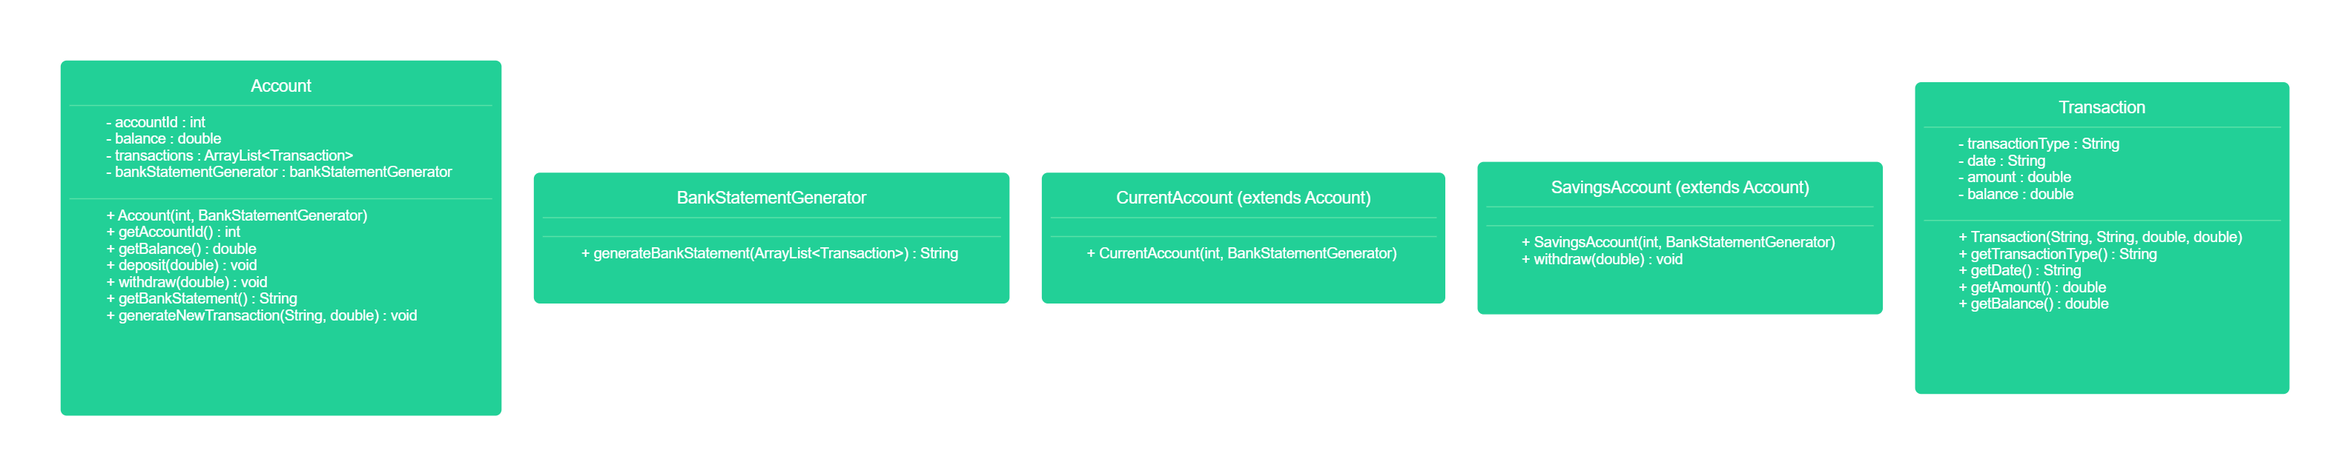
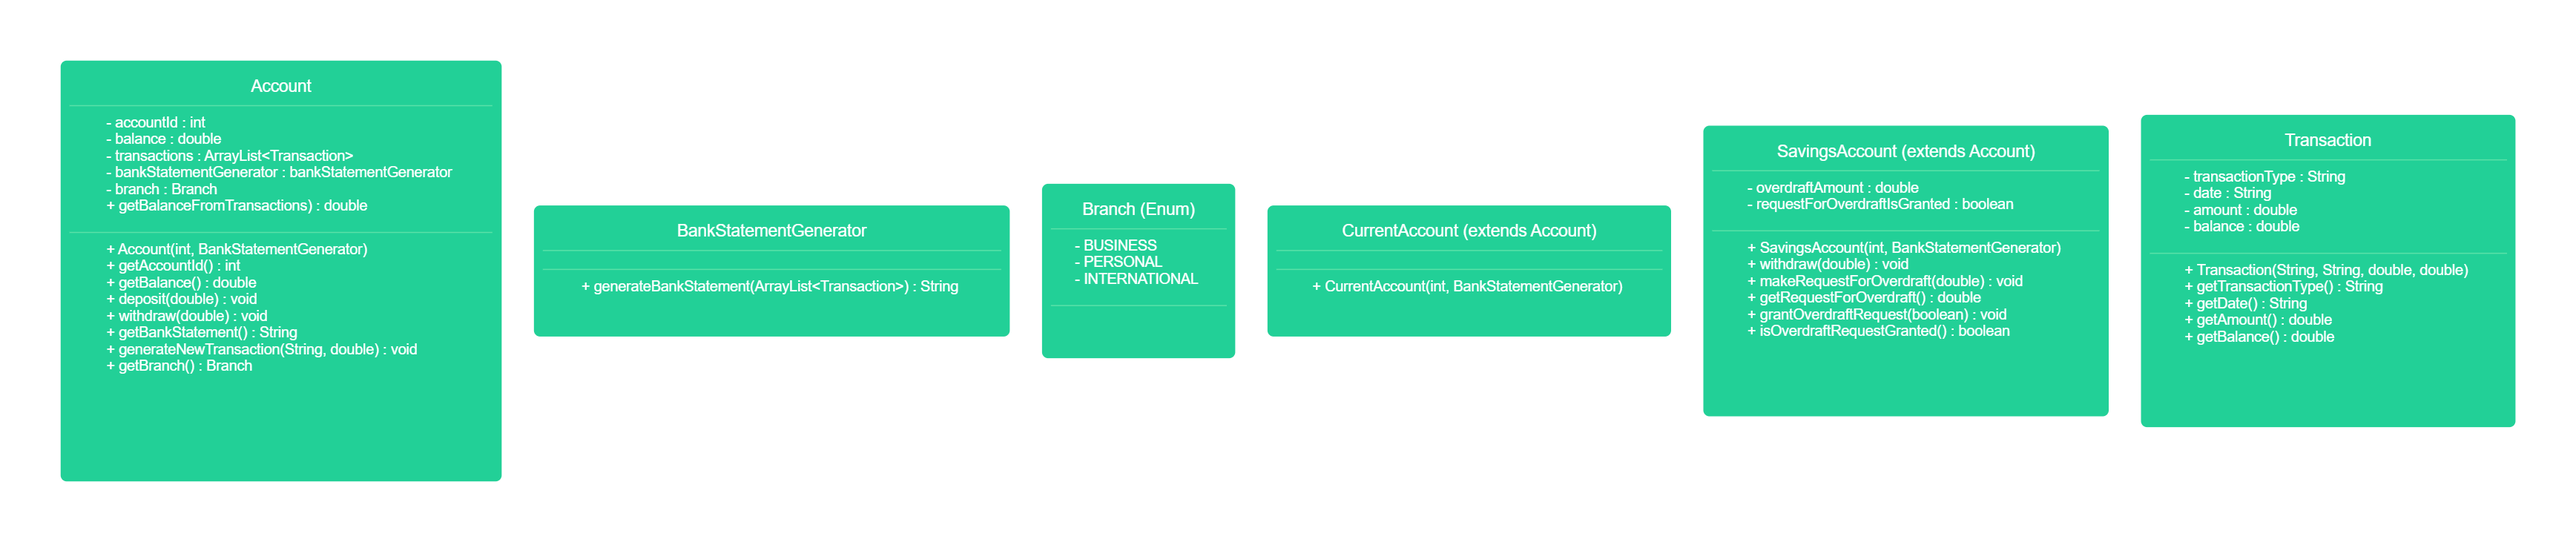
Updated class diagram

Changed region(s): [[0.0, 0.1244, 0.9997, 0.902], [0.0, 0.0933, 0.1874, 0.2177]]

diff --git a/src/test/java/com/booleanuk/core/SavingsAccountTest.java b/src/test/java/com/booleanuk/core/SavingsAccountTest.java
@@ -40,7 +40,7 @@ public class SavingsAccountTest {
         SavingsAccount savingsAccount = new SavingsAccount(123, Branch.PERSONAL);
         savingsAccount.makeRequestForOverdraft(100.0);
         savingsAccount.grantOverdraftRequest(true);
-        boolean requestForOverdraftIsGranted = savingsAccount.isOverDraftRequestGranted();
+        boolean requestForOverdraftIsGranted = savingsAccount.isOverdraftRequestGranted();
         Assertions.assertTrue(requestForOverdraftIsGranted);
     }
 
@@ -48,7 +48,7 @@ public class SavingsAccountTest {
     public void shouldBeFalseIfRequestForOverdraftHasNotBeenMade() {
         SavingsAccount savingsAccount = new SavingsAccount(123, Branch.PERSONAL);
         savingsAccount.grantOverdraftRequest(true);
-        boolean requestForOverdraftIsGranted = savingsAccount.isOverDraftRequestGranted();
+        boolean requestForOverdraftIsGranted = savingsAccount.isOverdraftRequestGranted();
         Assertions.assertFalse(requestForOverdraftIsGranted);
     }
 
@@ -58,7 +58,7 @@ public class SavingsAccountTest {
         savingsAccount.makeRequestForOverdraft(100.0);
         savingsAccount.grantOverdraftRequest(true);
         savingsAccount.withdraw(100.0);
-        boolean requestForOverdraftIsGranted = savingsAccount.isOverDraftRequestGranted();
+        boolean requestForOverdraftIsGranted = savingsAccount.isOverdraftRequestGranted();
         Assertions.assertFalse(requestForOverdraftIsGranted);
     }
 

diff --git a/src/main/java/com/booleanuk/core/SavingsAccount.java b/src/main/java/com/booleanuk/core/SavingsAccount.java
@@ -14,10 +14,10 @@ public class SavingsAccount extends Account{
         if(amount <= balance) {
             super.withdraw(amount);
         }
-        else if(requestForOverdraftIsGranted) {
+        else if(this.requestForOverdraftIsGranted) {
             super.withdraw(amount);
-            overdraftAmount = 0.0;
-            requestForOverdraftIsGranted = false;
+            this.overdraftAmount = 0.0;
+            this.requestForOverdraftIsGranted = false;
         }
     }
 
@@ -30,12 +30,12 @@ public class SavingsAccount extends Account{
     }
 
     public void grantOverdraftRequest(boolean requestForOverdraftIsGranted) {
-        if(overdraftAmount > 0) {
+        if(this.overdraftAmount > 0) {
             this.requestForOverdraftIsGranted = requestForOverdraftIsGranted;
         }
     }
 
-    public boolean isOverDraftRequestGranted() {
+    public boolean isOverdraftRequestGranted() {
         return this.requestForOverdraftIsGranted;
     }
 }
